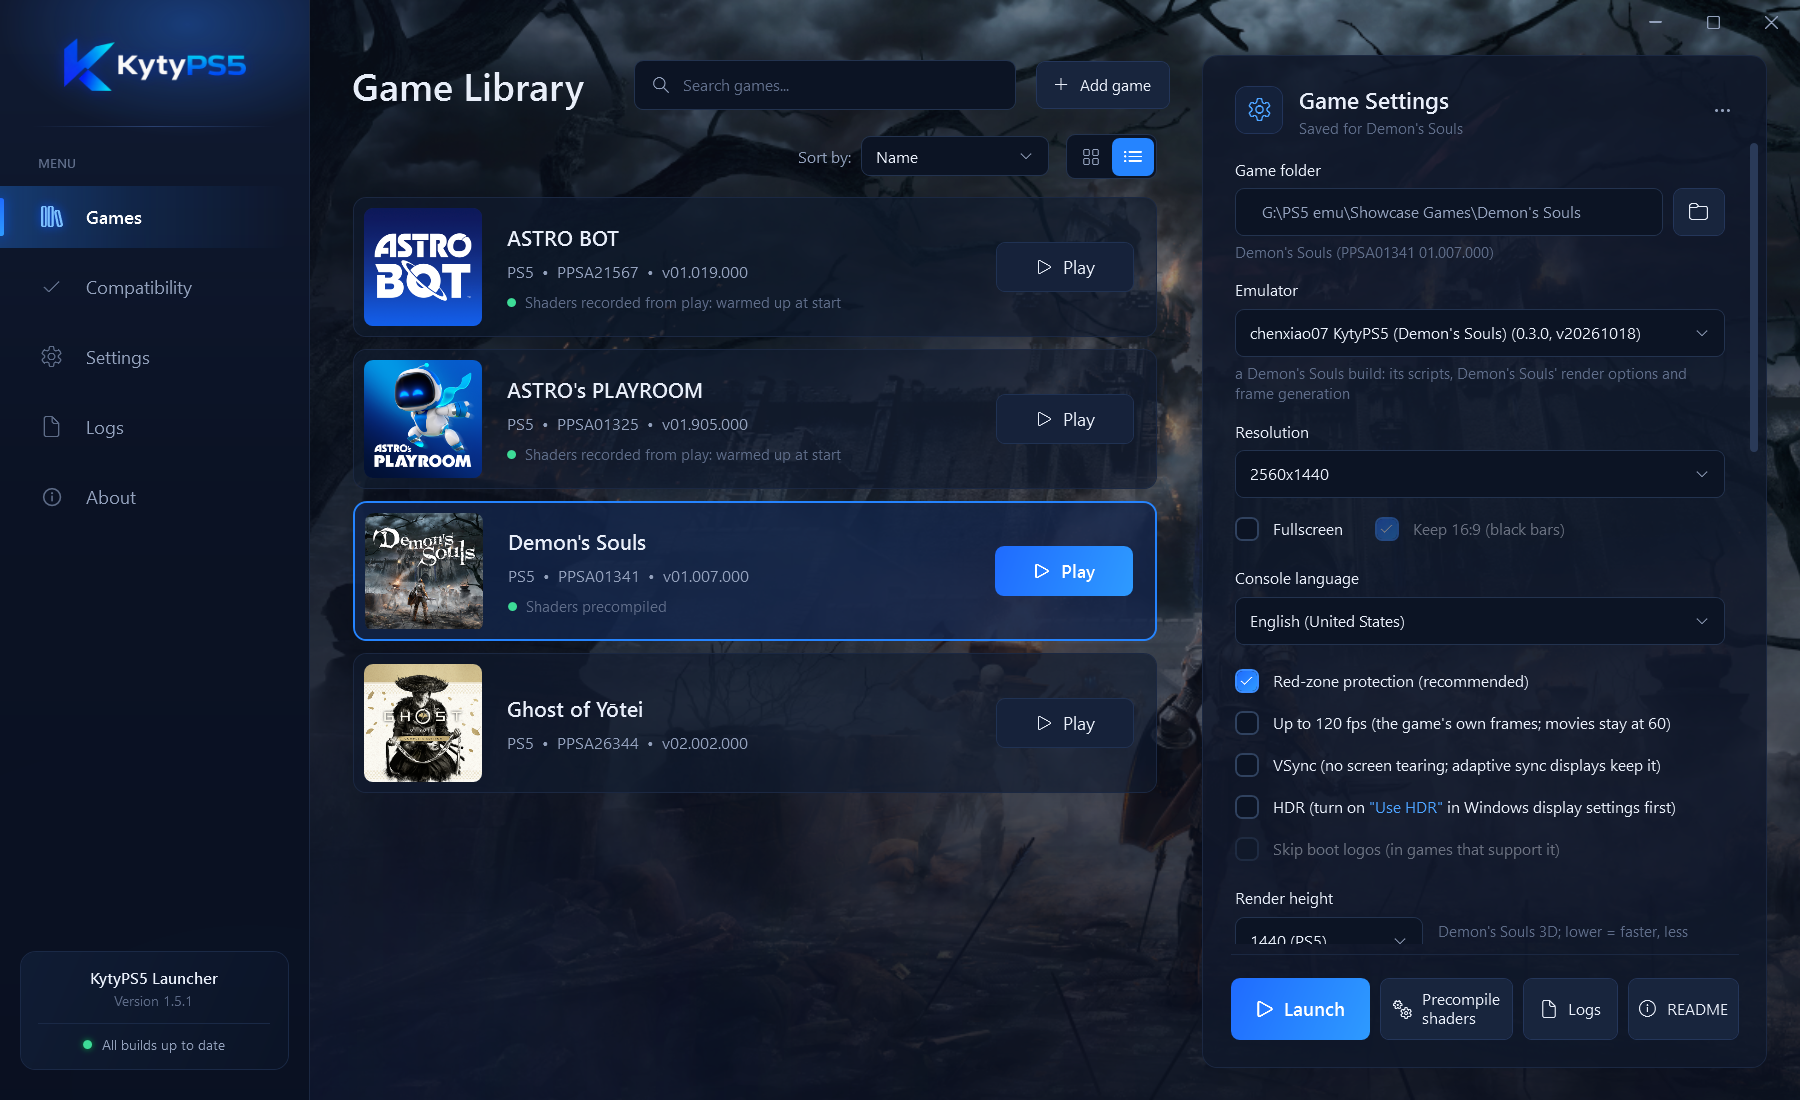
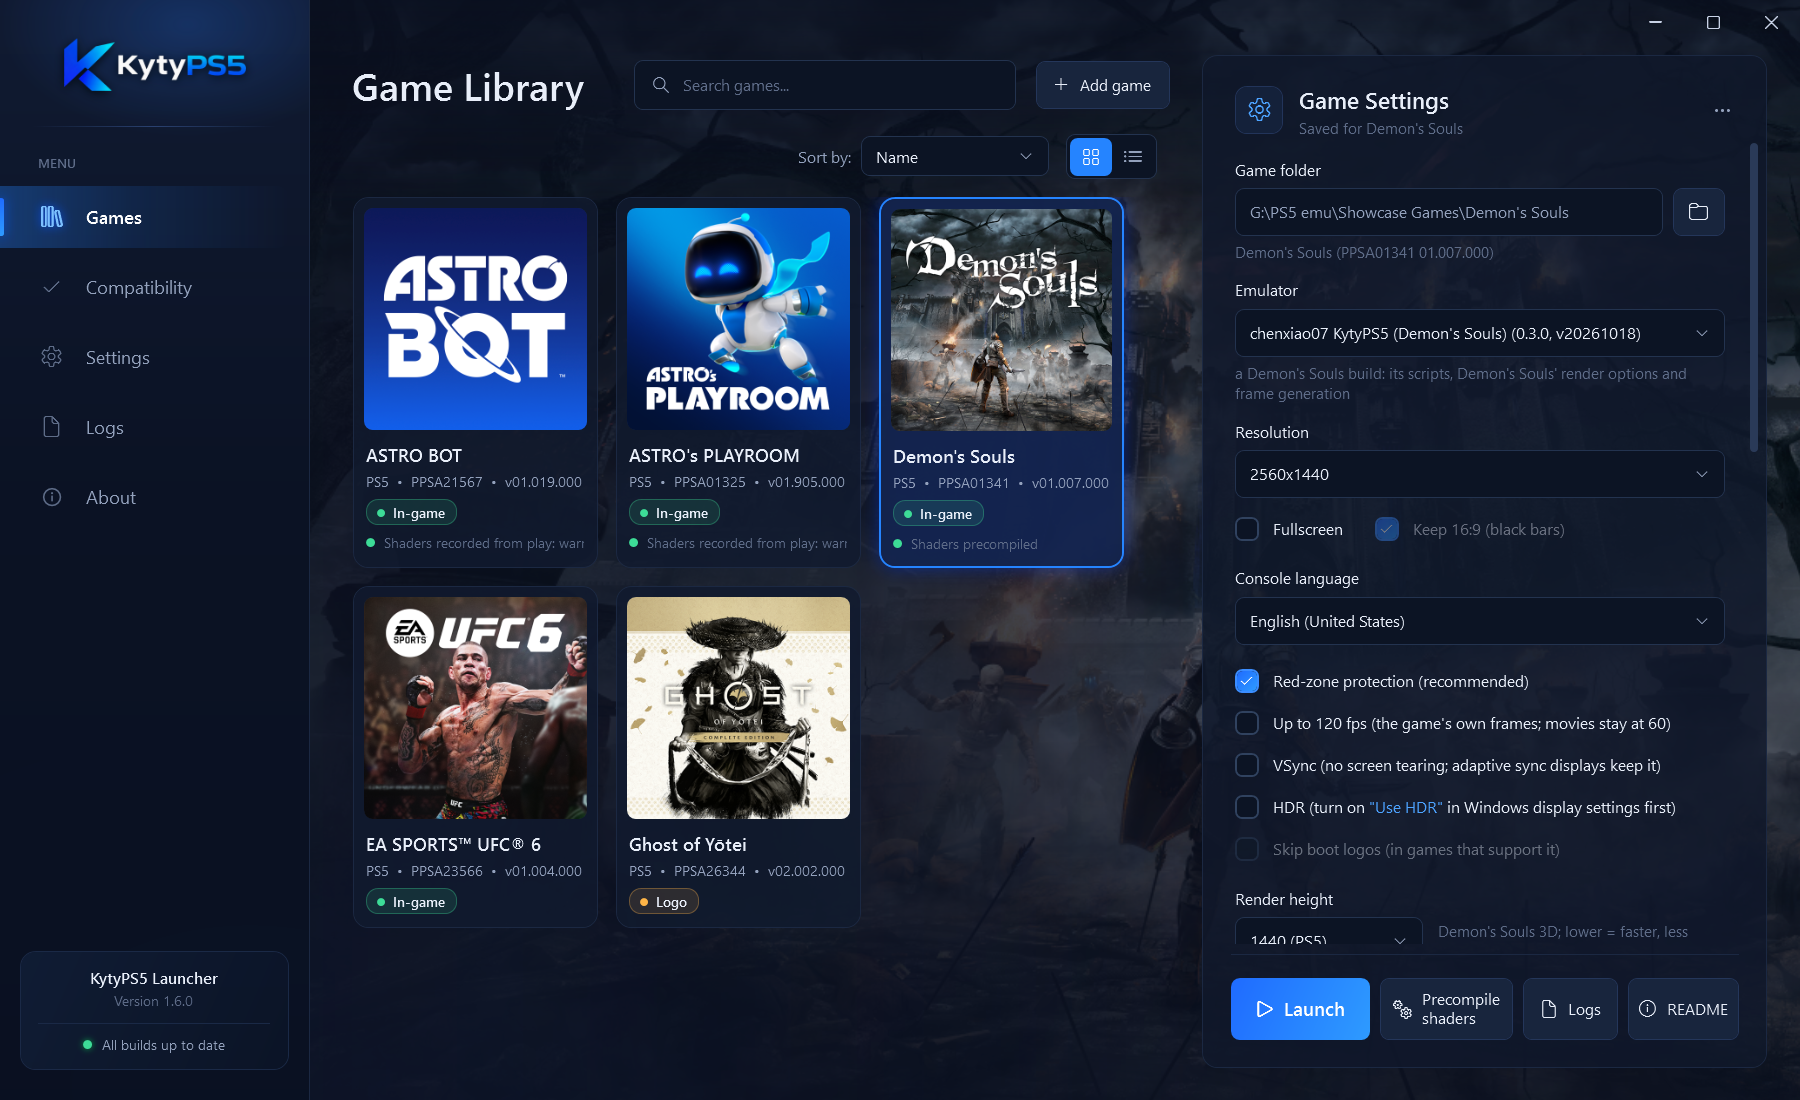
1.6.0: grid by default, the view remembered; new screenshots

diff --git a/MainWindow.xaml b/MainWindow.xaml
@@ -1578,7 +1578,7 @@
                                                                                     </Grid>
                                                                                     <StackPanel Margin="14,0,0,0" VerticalAlignment="Center">
                                                                                         <StackPanel Orientation="Horizontal">
-                                                                                            <TextBlock x:Name="Name" Text="ZIPEEK" FontSize="16" FontWeight="Bold" Foreground="{StaticResource TextBrush}"/>
+                                                                                            <TextBlock Text="ZIPEEK" FontSize="16" FontWeight="Bold" Foreground="{StaticResource TextBrush}"/>
                                                                                         </StackPanel>
                                                                                         <TextBlock Text="Creator of KytyPS5 Launcher" FontSize="12.5" Foreground="{StaticResource TextSecondaryBrush}" Margin="0,2,0,0"/>
                                                                                     </StackPanel>

diff --git a/MainWindow.xaml.cs b/MainWindow.xaml.cs
@@ -65,6 +65,8 @@ namespace KytyLauncher
 
             FillSettings();
             SortBox.SelectedIndex = 0;
+            // The library's view as it was left (grid for a new library).
+            if (settings.View == "grid") ViewTiles.IsChecked = true;
             var current = library.Find(settings.Game) ?? games.FirstOrDefault();
             GameList.SelectedItem = current;
             UpdateEmpty();
@@ -673,6 +675,11 @@ namespace KytyLauncher
             var tiles = ViewTiles.IsChecked == true;
             GameList.ItemTemplate = (DataTemplate)FindResource(tiles ? "TileTemplate" : "RowTemplate");
             GameList.ItemsPanel = (ItemsPanelTemplate)FindResource(tiles ? "TilePanel" : "RowPanel");
+            if (!loading && settings != null)
+            {
+                settings.View = tiles ? "grid" : "list";
+                settings.Save();
+            }
         }
 
         void UpdateEmpty()

diff --git a/Core/LauncherSettings.cs b/Core/LauncherSettings.cs
@@ -119,6 +119,8 @@ namespace KytyLauncher.Core
         public bool VulkanValidation { get => Bool("vulkanvalidation"); set => values["vulkanvalidation"] = value; }
         public bool ShaderValidation { get => Bool("shadervalidation"); set => values["shadervalidation"] = value; }
         public bool RenderDoc { get => Bool("renderdoc"); set => values["renderdoc"] = value; }
+        /// <summary>The Games page's view: "grid" (the default) or "list".</summary>
+        public string View { get => values.ContainsKey("view") && Str("view") == "list" ? "list" : "grid"; set => values["view"] = value; }
         public bool CheckUpdates { get => BoolOr("checkUpdates", true); set => values["checkUpdates"] = value; }
         public bool PrecompilePrompt { get => BoolOr("precompilePrompt", true); set => values["precompilePrompt"] = value; }
 

diff --git a/README.md b/README.md
@@ -13,7 +13,8 @@ keeps every build up to date.
 
 ## Features
 
-- **Game library** with each game's cover and artwork, search, list or grid view, and settings saved per game.
+- **Game library** with each game's cover and artwork, its status in the KytyPS5 compatibility list, search, grid or
+  list view, and settings saved per game.
 - **Works out of the box**: without an emulator it offers to download the latest official KytyPS5 release in one click.
 - **Several emulator builds side by side**: the official KytyPS5 and community builds made for particular games. Each
   game picks its build, and the launcher reads what each build supports (its `--help` and switches), so a game is offered
@@ -33,6 +34,8 @@ keeps every build up to date.
 | Settings | Compatibility |
 | --- | --- |
 | ![Settings](docs/settings.png) | ![Compatibility](docs/compatibility.png) |
+| **About** | |
+| ![About](docs/about.png) | |
 
 ## Getting started
 
